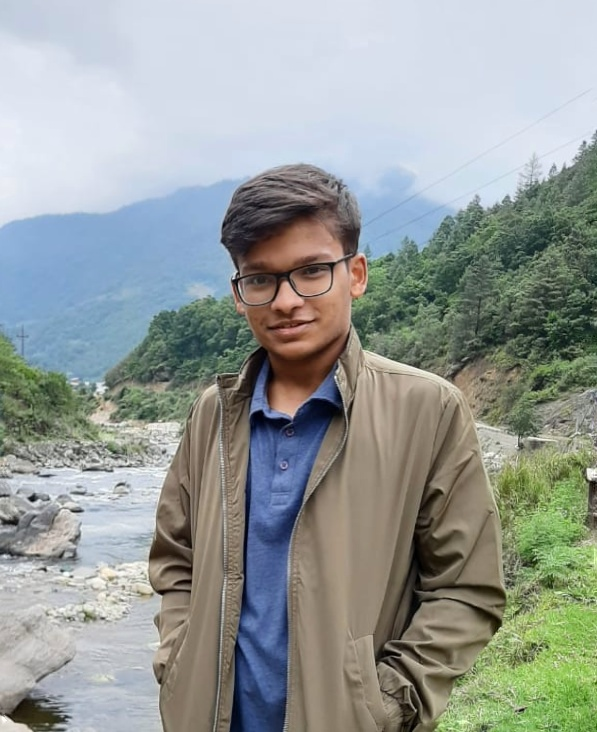
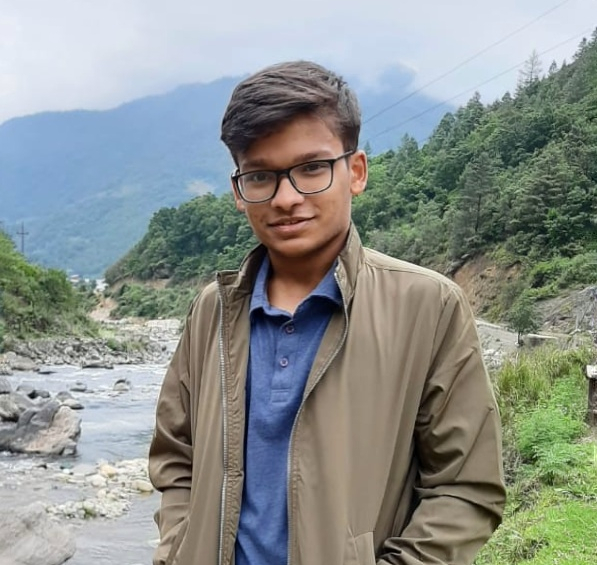
Updated Pictures: Batch 2021

diff --git a/views/nongeek.html b/views/nongeek.html
@@ -131,7 +131,7 @@
         </section>
         <section class="profile">
           <div>
-            <img src="./images/AnanyaSharma.jpeg">
+            <img src="./images/AnanyaSharma.jpg">
             <div class="caption">
               <h3>Ananya Sharma</h3>
               <span>HR Head</span>
